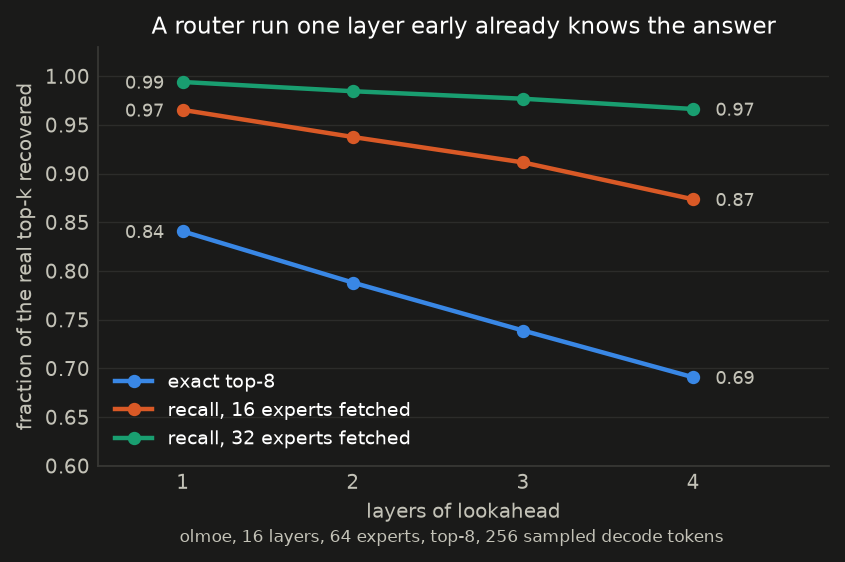
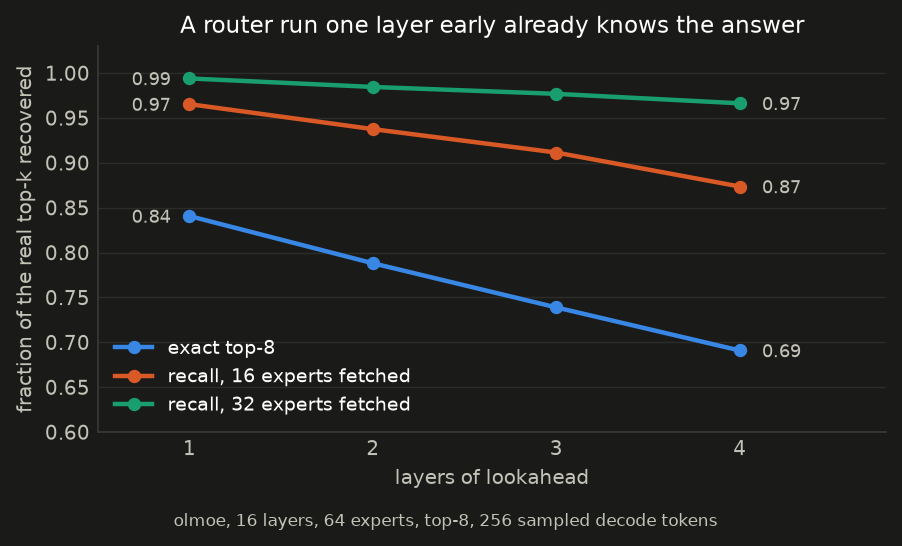
Results 6: use the numbers the runs actually logged
The per-token paragraph quoted 108 hits, 11 late hits, 185 MB and ~290 ms. The
two logged runs behind that table say 97.2 and 97.8 hits, 22.7 and 22.2 late
hits, 191.3 MB and 283 and 273 ms, so the prose disagreed with bench/results and
with the charts generated from it. Corrected, with the arithmetic redone against
the logged I/O rate: the drive was busy about 330 ms of a 343 ms token.

Also renders the two figures the README shows side by side on one fixed canvas,
so they come out the same size instead of being cropped to their own content and
sitting at different heights.

Changed region(s): [[0.0, 0.0934, 0.9846, 0.9652], [0.1538, 0.3736, 0.8923, 0.685], [0.1846, 0.0311, 0.9231, 0.0623]]

diff --git a/bench/make-charts.py b/bench/make-charts.py
@@ -81,9 +81,15 @@ def read_csv(path):
         return list(csv.DictReader(f))
 
 
-def save(fig, out, name):
+# figures meant to sit side by side in the README render on this exact canvas,
+# so they come out the same size; everything else is cropped to its content
+PAIR_SIZE = (5.8, 3.6)
+PAIR_MARGINS = {"left": 0.125, "right": 0.975, "top": 0.885, "bottom": 0.215}
+
+
+def save(fig, out, name, tight=True):
     path = os.path.join(out, name)
-    fig.savefig(path)
+    fig.savefig(path, bbox_inches="tight" if tight else None)
     plt.close(fig)
     print("wrote", path)
     return path
@@ -278,7 +284,8 @@ def fig_router(res, out):
               ("recall_2k", S2, "recall, %d experts fetched" % (2 * k)),
               ("recall_4k", S3, "recall, %d experts fetched" % (4 * k))]
 
-    fig, ax = plt.subplots(figsize=(5.9, 3.4))
+    fig, ax = plt.subplots(figsize=PAIR_SIZE)
+    fig.subplots_adjust(**PAIR_MARGINS)
     for key, color, name in series:
         y = [sr[str(i)][key] for i in ks]
         ax.plot(ks, y, color=color, linewidth=2, marker="o", markersize=5, label=name)
@@ -294,10 +301,10 @@ def fig_router(res, out):
     ax.set_ylim(0.6, 1.03)
     grid_y(ax)
     ax.legend(loc="lower left")
-    fig.text(0.5, -0.03, "%s, %d layers, %d experts, top-%d, %d sampled decode tokens"
+    fig.text(0.5, 0.045, "%s, %d layers, %d experts, top-%d, %d sampled decode tokens"
              % (d["arch"], d["n_layer"], d["n_expert"], k, d["n_tokens"]),
-             ha="center", fontsize=7.5, color=INK2)
-    return save(fig, out, "fig4-stale-router.png")
+             ha="center", va="bottom", fontsize=7.5, color=INK2)
+    return save(fig, out, "fig4-stale-router.png", tight=False)
 
 
 def fig_popularity(res, out):
@@ -384,7 +391,8 @@ def fig_ppl(res, out):
     """Quality cost of routing to fewer experts."""
     rows = read_csv(os.path.join(res, "ppl.csv"))
     corpora = (("wikitext2", S1, "wikitext-2 test"), ("gitdoc", S2, "technical prose"))
-    fig, ax = plt.subplots(figsize=(5.7, 3.4))
+    fig, ax = plt.subplots(figsize=PAIR_SIZE)
+    fig.subplots_adjust(**PAIR_MARGINS)
     for tag, color, name in corpora:
         rr = sorted((int(r["k"]), float(r["ppl"]), float(r["ppl_err"]))
                     for r in rows if r["tag"] == tag and int(r["k"]) >= 4)
@@ -407,9 +415,9 @@ def fig_ppl(res, out):
     ax.legend(loc="upper left")
     note = "native K is 8; lower K set with --override-kv, no retraining"
     if k2:
-        note += ". K=2 on technical prose reaches %.1f, off this scale" % k2[0]
-    fig.text(0.5, -0.03, note, ha="center", fontsize=7.5, color=INK2)
-    return save(fig, out, "fig7-ppl-vs-k.png")
+        note += "\nK=2 on technical prose reaches %.1f, off this scale" % k2[0]
+    fig.text(0.5, 0.045, note, ha="center", va="bottom", fontsize=7.5, color=INK2)
+    return save(fig, out, "fig7-ppl-vs-k.png", tight=False)
 
 
 def fig_layout(res, out):

diff --git a/docs/NOTES.md b/docs/NOTES.md
@@ -357,9 +357,17 @@ whole model fit — the "available" knob is only approximately a budget, and it
 favours the page-cache side, whose standby list can grow into memory freed
 from other processes while our locked cache cannot.)
 
-Per token at 32 slots: 108 hits, 11 late hits, 8 misses, 40 prefetched,
-185 MB read, main thread waits ~290 ms -> the cache path is purely
-bandwidth-bound: 185 MB / 0.65 GB/s = 285 ms. Page faults are gone.
+Per token at 32 slots, from the two logged runs (`ab-20260918-013008` and
+`ab-20260918-013149`): 97.2 and 97.8 hits, 22.7 and 22.2 late hits, 8.2 misses,
+41.9 prefetched, 39.4 evictions, 191.3 MB read, main thread blocked 283 and
+273 ms. Each of the two I/O threads moved 291 and 299 MB/s, so the drive was
+busy for roughly 330 ms of a 343 ms token. The cache path is purely
+bandwidth-bound and page faults are gone.
+
+(An earlier draft of this paragraph quoted 108 hits, 11 late hits, 185 MB and
+~290 ms. Those were from an unlogged run during development; the figures above
+are the ones in `bench/results/`, and they are what the article and the charts
+use.)
 
 **What that means.** With the I/O owned, tok/s = bytes per token / sustained
 bandwidth, overlapped with compute. The remaining levers are all about bytes

diff --git a/docs/streaming-moe-on-a-laptop.md b/docs/streaming-moe-on-a-laptop.md
@@ -252,10 +252,12 @@ source of noise in these measurements.
 
 With the faults gone, the accounting is simple. At 32 slots the cache recorded
 97 hits, 22 late hits (the prefetch was in flight and the main thread waited)
-and 8 misses per token, reading 191 MB per token and blocking the main thread
-for about 280 ms. 191 MB at the roughly 600 MB/s the drive was then sustaining
-is 280 ms. The path is purely bandwidth-bound. Nothing about faults or policy
-is left to fix; what is left is bytes and bandwidth.
+and 8 misses per token, reading 191.3 MB per token and blocking the main thread
+for 273 to 283 ms. Each of the two I/O threads was moving about 295 MB/s, so
+reading those 191.3 MB kept the drive busy for roughly 330 ms, and the token
+took 343 ms. Essentially the whole token is the drive. The path is purely
+bandwidth-bound, and nothing about faults or cache policy is left to fix; what
+is left is bytes and bandwidth.
 
 ## One read instead of three
 
